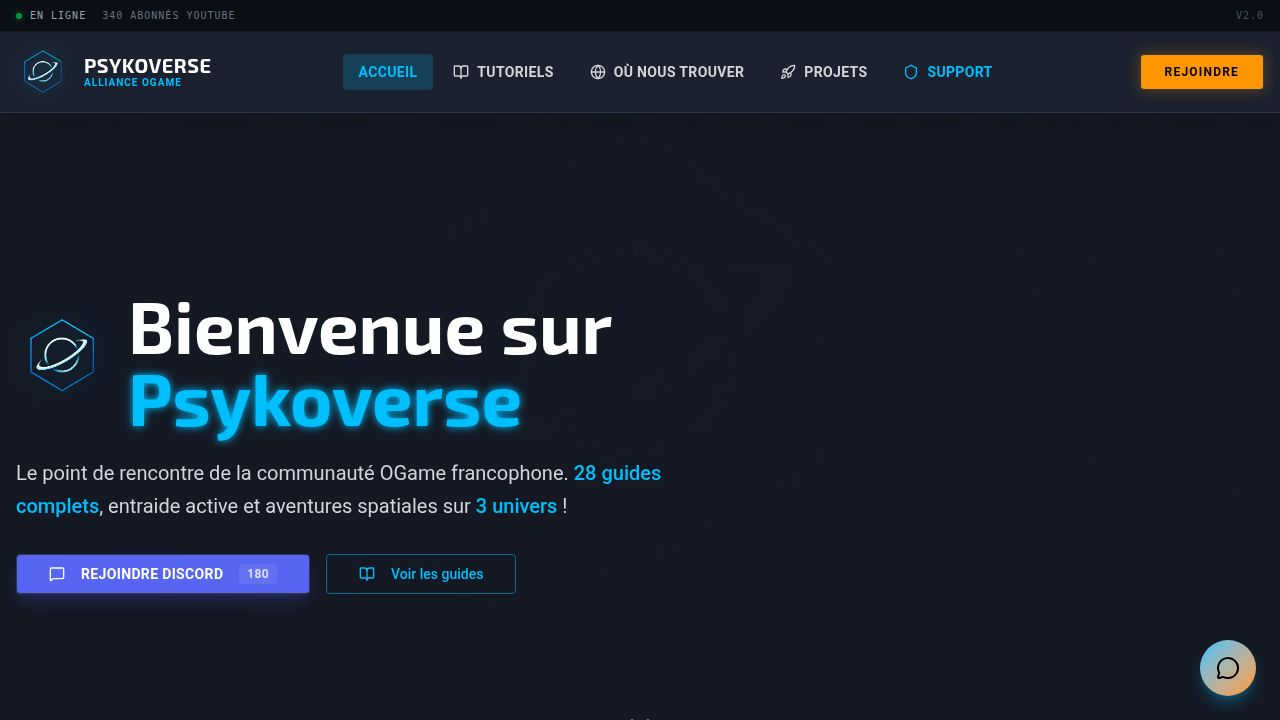
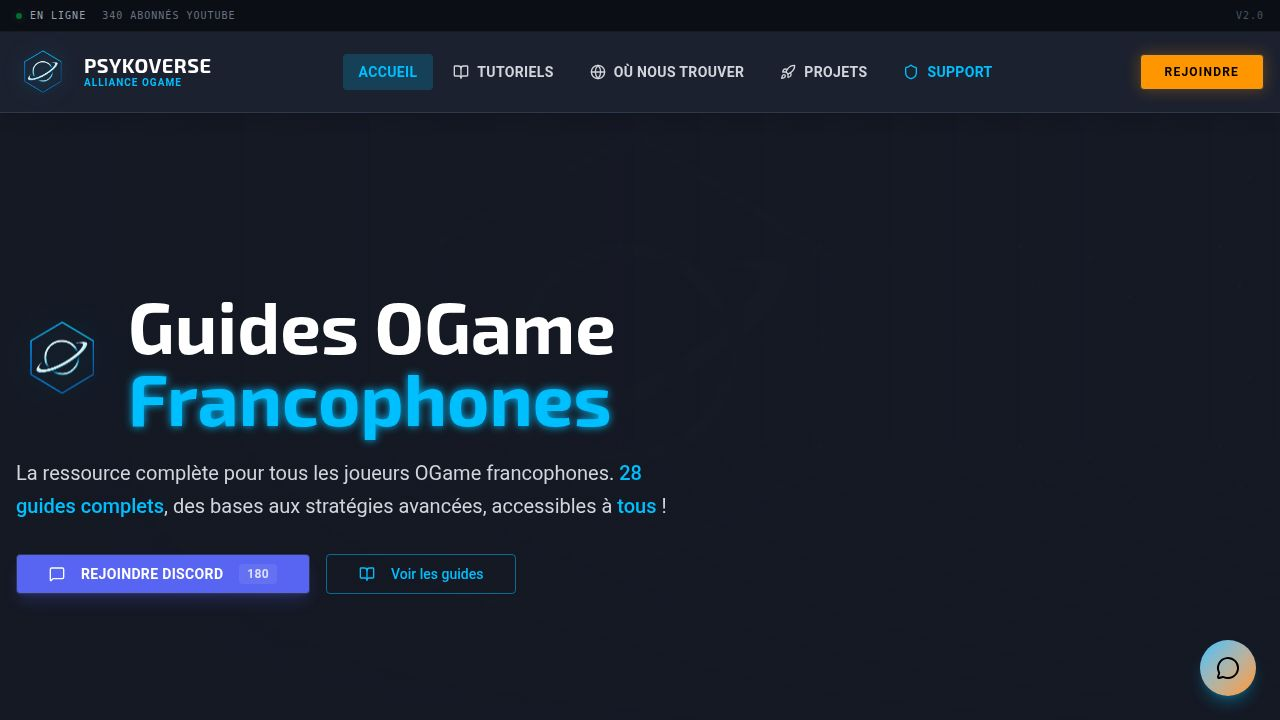
Improve website navigation and broaden community outreach
Remove redundant Discord call-to-actions from individual guide pages and update the homepage to be more inclusive of all francophone OGame players, shifting focus from a specific alliance to a general resource.

Replit-Commit-Author: Agent
Replit-Commit-Session-Id: fbb635ff-35aa-4961-b565-d865ef3c1b3d
Replit-Commit-Checkpoint-Type: intermediate_checkpoint
Replit-Commit-Event-Id: 158bece4-b0c7-4641-9d7e-0fe310c3c44c
Replit-Commit-Screenshot-Url: https://storage.googleapis.com/screenshot-production-us-central1/d4f81865-4d0e-47a2-a652-d4a2a96cce49/fbb635ff-35aa-4961-b565-d865ef3c1b3d/TlJ1hsi
Replit-Helium-Checkpoint-Created: true

Changed region(s): [[0.0312, 0.3972, 0.5, 0.6111], [0.0, 0.6417, 0.5312, 0.7333]]

diff --git a/client/src/pages/home.tsx b/client/src/pages/home.tsx
@@ -80,8 +80,8 @@ const features = [
   },
   {
     icon: Users,
-    title: "Communauté Active",
-    description: "180 membres sur Discord prêts à vous aider et partager leurs expériences."
+    title: "Ouvert à Tous",
+    description: "Ressources accessibles à tous les joueurs francophones, quelle que soit votre alliance."
   },
   {
     icon: Trophy,
@@ -129,18 +129,18 @@ export default function Home() {
               <img src={allianceLogo} alt="" className="w-20 h-20 md:w-24 md:h-24 logo-float drop-shadow-[0_0_30px_rgba(0,191,255,0.4)]" />
               <div>
                 <h1 className="font-display text-4xl md:text-6xl lg:text-7xl font-bold text-white leading-none">
-                  Bienvenue sur
+                  Guides OGame
                 </h1>
                 <span className="font-display text-4xl md:text-6xl lg:text-7xl font-bold text-primary leading-none text-glow">
-                  Psykoverse
+                  Francophones
                 </span>
               </div>
             </motion.div>
             
             <motion.p variants={fadeInUp} className="text-lg md:text-xl text-gray-300 mb-8 leading-relaxed max-w-2xl">
-              Le point de rencontre de la communauté OGame francophone. 
-              <span className="text-primary font-medium"> 28 guides complets</span>, entraide active et 
-              aventures spatiales sur <span className="text-primary font-medium">3 univers</span> !
+              La ressource complète pour tous les joueurs OGame francophones. 
+              <span className="text-primary font-medium"> 28 guides complets</span>, des bases aux stratégies avancées, 
+              accessibles à <span className="text-primary font-medium">tous</span> !
             </motion.p>
             
             <motion.div variants={fadeInUp} className="flex flex-wrap gap-4">
@@ -210,10 +210,10 @@ export default function Home() {
               Tout pour réussir sur OGame
             </motion.div>
             <motion.h2 variants={fadeInUp} className="font-display text-3xl md:text-4xl font-bold text-white mb-4">
-              Explorez Psykoverse
+              Explorez les ressources
             </motion.h2>
             <motion.p variants={fadeInUp} className="text-gray-400 max-w-xl mx-auto">
-              Découvrez tout ce que notre communauté a à offrir
+              Tout ce qu'il faut pour progresser sur OGame
             </motion.p>
           </motion.div>
 
@@ -261,7 +261,7 @@ export default function Home() {
             className="text-center mb-12"
           >
             <motion.h2 variants={fadeInUp} className="font-display text-3xl md:text-4xl font-bold text-white mb-4">
-              Pourquoi nous rejoindre ?
+              Pourquoi ce site ?
             </motion.h2>
           </motion.div>
 

diff --git a/client/src/pages/guide-galaxie.tsx b/client/src/pages/guide-galaxie.tsx
@@ -139,29 +139,6 @@ export default function GuideGalaxie() {
               </div>
 
               <RelatedGuides currentGuide="galaxie" />
-
-              <div className="bg-gradient-to-r from-[#5865F2]/20 to-[#5865F2]/5 border border-[#5865F2]/30 rounded-xl p-6">
-                <div className="flex items-center gap-4 mb-4">
-                  <div className="w-12 h-12 bg-[#5865F2] rounded-lg flex items-center justify-center">
-                    <Users className="w-6 h-6 text-white" />
-                  </div>
-                  <div>
-                    <h2 className="font-display text-xl font-bold text-white">Rejoignez la Psykoverse !</h2>
-                    <p className="text-gray-400 text-sm">180 membres actifs sur Discord</p>
-                  </div>
-                </div>
-                <p className="text-gray-300 mb-4">
-                  Nous sommes présents sur <span className="text-white font-bold">Hercules</span>, 
-                  <span className="text-white font-bold"> Scorpius</span> et le 
-                  <span className="text-secondary font-bold"> serveur Saison du 19 décembre</span> !
-                </p>
-                <Button className="bg-[#5865F2] hover:bg-[#4752C4]" asChild>
-                  <a href="https://discord.gg/3PWk4HmfNn" target="_blank" rel="noopener noreferrer">
-                    Rejoindre notre Discord
-                    <ExternalLink className="w-4 h-4 ml-2" />
-                  </a>
-                </Button>
-              </div>
             </div>
           </motion.div>
         </div>

diff --git a/client/src/pages/guide-acs.tsx b/client/src/pages/guide-acs.tsx
@@ -114,27 +114,6 @@ export default function GuideACS() {
               </div>
 
               <RelatedGuides currentGuide="acs" />
-
-              <div className="bg-gradient-to-r from-[#5865F2]/20 to-[#5865F2]/5 border border-[#5865F2]/30 rounded-xl p-6">
-                <div className="flex items-center gap-4 mb-4">
-                  <div className="w-12 h-12 bg-[#5865F2] rounded-lg flex items-center justify-center">
-                    <Users className="w-6 h-6 text-white" />
-                  </div>
-                  <div>
-                    <h2 className="font-display text-xl font-bold text-white">Rejoignez Psykoverse</h2>
-                    <p className="text-gray-400 text-sm">180 membres prêts à vous défendre</p>
-                  </div>
-                </div>
-                <p className="text-gray-300 mb-4">
-                  Notre alliance organise régulièrement des ACS et offre une protection SAB à ses membres.
-                </p>
-                <Button className="bg-[#5865F2] hover:bg-[#4752C4]" asChild>
-                  <a href="https://discord.gg/3PWk4HmfNn" target="_blank" rel="noopener noreferrer">
-                    Rejoindre le Discord
-                    <ExternalLink className="w-4 h-4 ml-2" />
-                  </a>
-                </Button>
-              </div>
             </div>
           </motion.div>
         </div>

diff --git a/client/src/pages/guide-activite.tsx b/client/src/pages/guide-activite.tsx
@@ -337,21 +337,6 @@ export default function GuideActivite() {
                 </div>
 
                 <RelatedGuides currentGuide="activite" />
-
-                <div className="mt-12 bg-gradient-to-br from-primary/10 to-secondary/10 border border-primary/30 rounded-xl p-8 text-center">
-                  <h3 className="font-display text-xl font-bold text-white mb-3">
-                    Des questions sur ce guide ?
-                  </h3>
-                  <p className="text-gray-400 mb-6">
-                    Rejoignez notre Discord pour discuter avec des joueurs expérimentés !
-                  </p>
-                  <Button size="lg" asChild>
-                    <a href="https://discord.gg/3PWk4HmfNn" target="_blank" rel="noopener noreferrer">
-                      Rejoindre le Discord
-                      <ExternalLink className="w-4 h-4 ml-2" />
-                    </a>
-                  </Button>
-                </div>
               </motion.div>
             )}
           </motion.div>

diff --git a/client/src/pages/guide-production.tsx b/client/src/pages/guide-production.tsx
@@ -166,21 +166,6 @@ export default function GuideProduction() {
               </div>
 
               <RelatedGuides currentGuide="production" />
-
-              <div className="bg-gradient-to-br from-primary/10 to-secondary/10 border border-primary/30 rounded-xl p-8 text-center">
-                <h3 className="font-display text-xl font-bold text-white mb-3">
-                  Questions sur l'optimisation de vos mines ?
-                </h3>
-                <p className="text-gray-400 mb-6">
-                  Nos joueurs expérimentés peuvent vous aider sur Discord !
-                </p>
-                <Button size="lg" asChild>
-                  <a href="https://discord.gg/3PWk4HmfNn" target="_blank" rel="noopener noreferrer">
-                    Rejoindre le Discord
-                    <ExternalLink className="w-4 h-4 ml-2" />
-                  </a>
-                </Button>
-              </div>
             </div>
           </motion.div>
         </div>

diff --git a/client/src/pages/guide-colonisation.tsx b/client/src/pages/guide-colonisation.tsx
@@ -160,21 +160,6 @@ export default function GuideColonisation() {
               </div>
 
               <RelatedGuides currentGuide="colonisation" />
-
-              <div className="bg-gradient-to-br from-primary/10 to-secondary/10 border border-primary/30 rounded-xl p-8 text-center">
-                <h3 className="font-display text-xl font-bold text-white mb-3">
-                  Besoin de conseils pour votre expansion ?
-                </h3>
-                <p className="text-gray-400 mb-6">
-                  Rejoignez notre Discord pour discuter stratégie !
-                </p>
-                <Button size="lg" asChild>
-                  <a href="https://discord.gg/3PWk4HmfNn" target="_blank" rel="noopener noreferrer">
-                    Rejoindre le Discord
-                    <ExternalLink className="w-4 h-4 ml-2" />
-                  </a>
-                </Button>
-              </div>
             </div>
           </motion.div>
         </div>

diff --git a/client/src/pages/guide-chantier.tsx b/client/src/pages/guide-chantier.tsx
@@ -539,21 +539,6 @@ export default function GuideChantier() {
               </div>
 
               <RelatedGuides currentGuide="chantier" />
-
-              <div className="bg-gradient-to-br from-primary/10 to-secondary/10 border border-primary/30 rounded-xl p-8 text-center">
-                <h3 className="font-display text-xl font-bold text-white mb-3">
-                  Questions sur la composition de flotte ?
-                </h3>
-                <p className="text-gray-400 mb-6">
-                  Nos experts combat peuvent vous conseiller sur Discord !
-                </p>
-                <Button size="lg" asChild>
-                  <a href="https://discord.gg/3PWk4HmfNn" target="_blank" rel="noopener noreferrer">
-                    Rejoindre le Discord
-                    <ExternalLink className="w-4 h-4 ml-2" />
-                  </a>
-                </Button>
-              </div>
             </div>
           </motion.div>
         </div>

diff --git a/client/src/pages/guide-alliance-classes.tsx b/client/src/pages/guide-alliance-classes.tsx
@@ -386,20 +386,6 @@ export default function GuideAllianceClasses() {
                 </div>
               </div>
 
-              <div className="bg-gradient-to-br from-primary/10 to-secondary/10 border border-primary/30 rounded-xl p-8 text-center">
-                <h3 className="font-display text-xl font-bold text-white mb-3">
-                  Questions sur les classes d'alliance ?
-                </h3>
-                <p className="text-gray-400 mb-6">
-                  Rejoignez Psykoverse pour discuter de la meilleure stratégie pour votre alliance !
-                </p>
-                <Button size="lg" asChild>
-                  <a href="https://discord.gg/3PWk4HmfNn" target="_blank" rel="noopener noreferrer">
-                    Rejoindre le Discord
-                    <ExternalLink className="w-4 h-4 ml-2" />
-                  </a>
-                </Button>
-              </div>
             </div>
           </motion.div>
         </div>

diff --git a/client/src/pages/guide-recherches.tsx b/client/src/pages/guide-recherches.tsx
@@ -155,21 +155,6 @@ export default function GuideRecherches() {
               </div>
 
               <RelatedGuides currentGuide="recherches" />
-
-              <div className="bg-gradient-to-br from-primary/10 to-secondary/10 border border-primary/30 rounded-xl p-8 text-center">
-                <h3 className="font-display text-xl font-bold text-white mb-3">
-                  Besoin de conseils sur vos priorités ?
-                </h3>
-                <p className="text-gray-400 mb-6">
-                  Rejoignez notre Discord pour discuter stratégie !
-                </p>
-                <Button size="lg" asChild>
-                  <a href="https://discord.gg/3PWk4HmfNn" target="_blank" rel="noopener noreferrer">
-                    Rejoindre le Discord
-                    <ExternalLink className="w-4 h-4 ml-2" />
-                  </a>
-                </Button>
-              </div>
             </div>
           </motion.div>
         </div>

diff --git a/client/src/pages/guide-lune.tsx b/client/src/pages/guide-lune.tsx
@@ -121,21 +121,6 @@ export default function GuideLune() {
               </div>
 
               <RelatedGuides currentGuide="lune" />
-
-              <div className="bg-gradient-to-br from-primary/10 to-secondary/10 border border-primary/30 rounded-xl p-8 text-center">
-                <h3 className="font-display text-xl font-bold text-white mb-3">
-                  Besoin d'aide pour obtenir une lune ?
-                </h3>
-                <p className="text-gray-400 mb-6">
-                  Notre alliance peut vous aider à créer votre lune !
-                </p>
-                <Button size="lg" asChild>
-                  <a href="https://discord.gg/3PWk4HmfNn" target="_blank" rel="noopener noreferrer">
-                    Rejoindre le Discord
-                    <ExternalLink className="w-4 h-4 ml-2" />
-                  </a>
-                </Button>
-              </div>
             </div>
           </motion.div>
         </div>

diff --git a/client/src/pages/guide-jargon.tsx b/client/src/pages/guide-jargon.tsx
@@ -125,21 +125,6 @@ export default function GuideJargon() {
             </div>
 
             <RelatedGuides currentGuide="jargon" />
-
-            <div className="mt-8 bg-gradient-to-br from-primary/10 to-secondary/10 border border-primary/30 rounded-xl p-8 text-center">
-              <h3 className="font-display text-xl font-bold text-white mb-3">
-                Un terme que vous ne comprenez pas ?
-              </h3>
-              <p className="text-gray-400 mb-6">
-                Posez votre question sur Discord, la communauté vous répondra !
-              </p>
-              <Button size="lg" asChild>
-                <a href="https://discord.gg/3PWk4HmfNn" target="_blank" rel="noopener noreferrer">
-                  Rejoindre le Discord
-                  <ExternalLink className="w-4 h-4 ml-2" />
-                </a>
-              </Button>
-            </div>
           </motion.div>
         </div>
       </section>

diff --git a/client/src/pages/guide-interface.tsx b/client/src/pages/guide-interface.tsx
@@ -128,21 +128,6 @@ export default function GuideInterface() {
               </div>
 
               <RelatedGuides currentGuide="interface" />
-
-              <div className="bg-gradient-to-br from-primary/10 to-secondary/10 border border-primary/30 rounded-xl p-8 text-center">
-                <h3 className="font-display text-xl font-bold text-white mb-3">
-                  Besoin d'aide ?
-                </h3>
-                <p className="text-gray-400 mb-6">
-                  Rejoignez notre Discord pour poser vos questions !
-                </p>
-                <Button size="lg" asChild>
-                  <a href="https://discord.gg/3PWk4HmfNn" target="_blank" rel="noopener noreferrer">
-                    Rejoindre le Discord
-                    <ExternalLink className="w-4 h-4 ml-2" />
-                  </a>
-                </Button>
-              </div>
             </div>
           </motion.div>
         </div>
